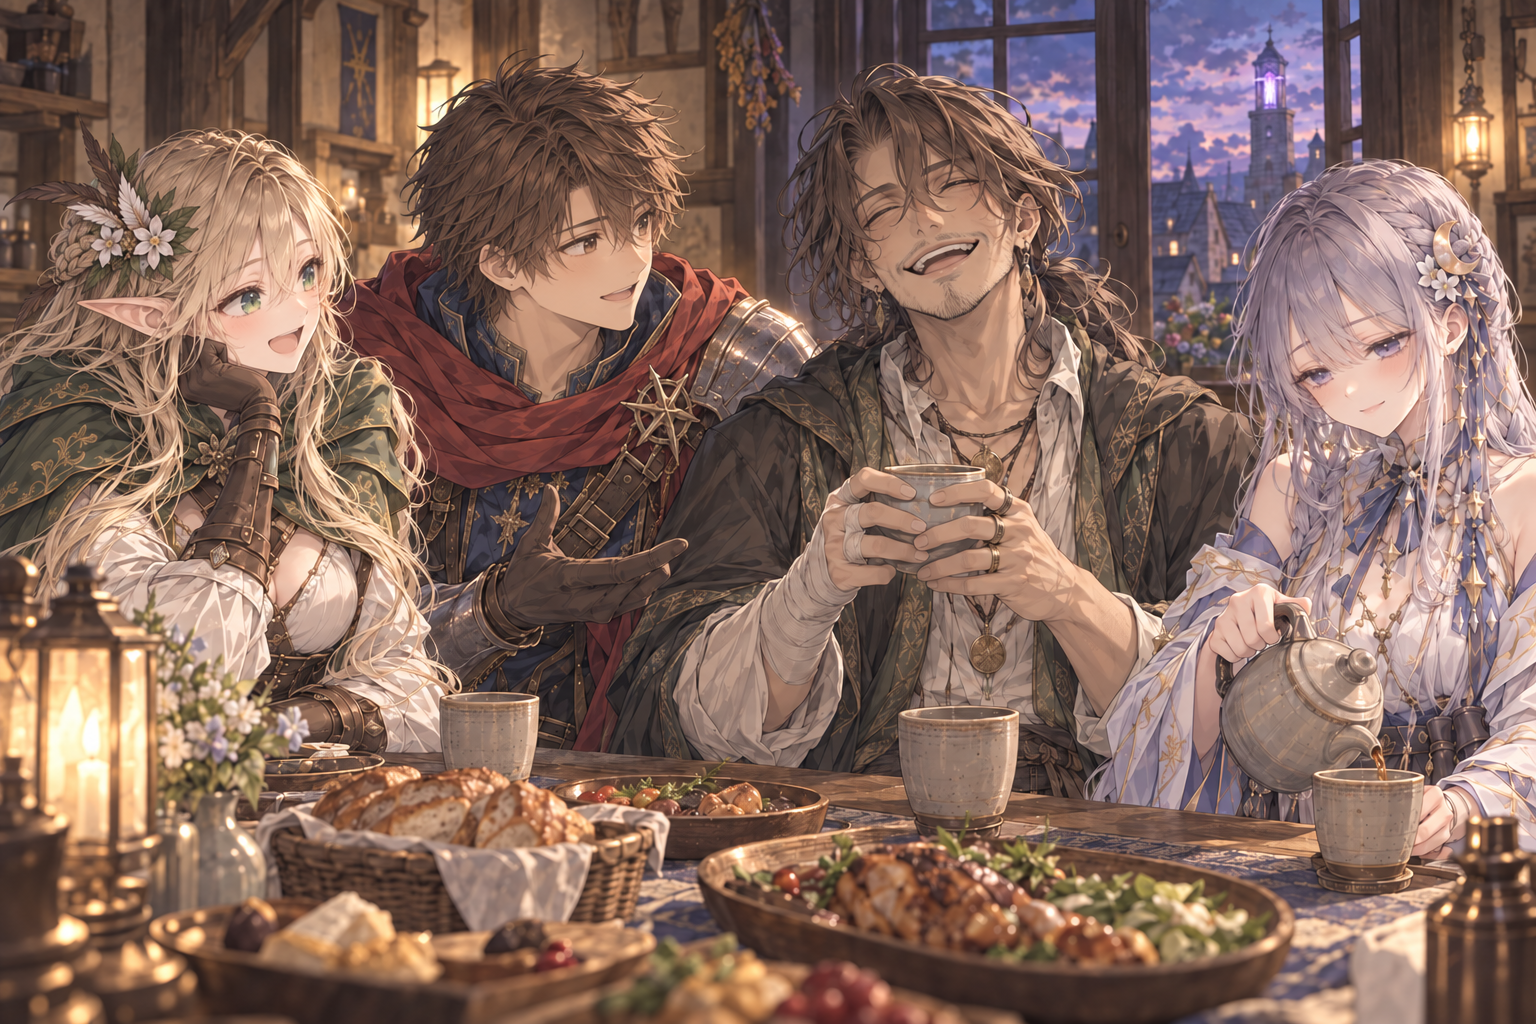
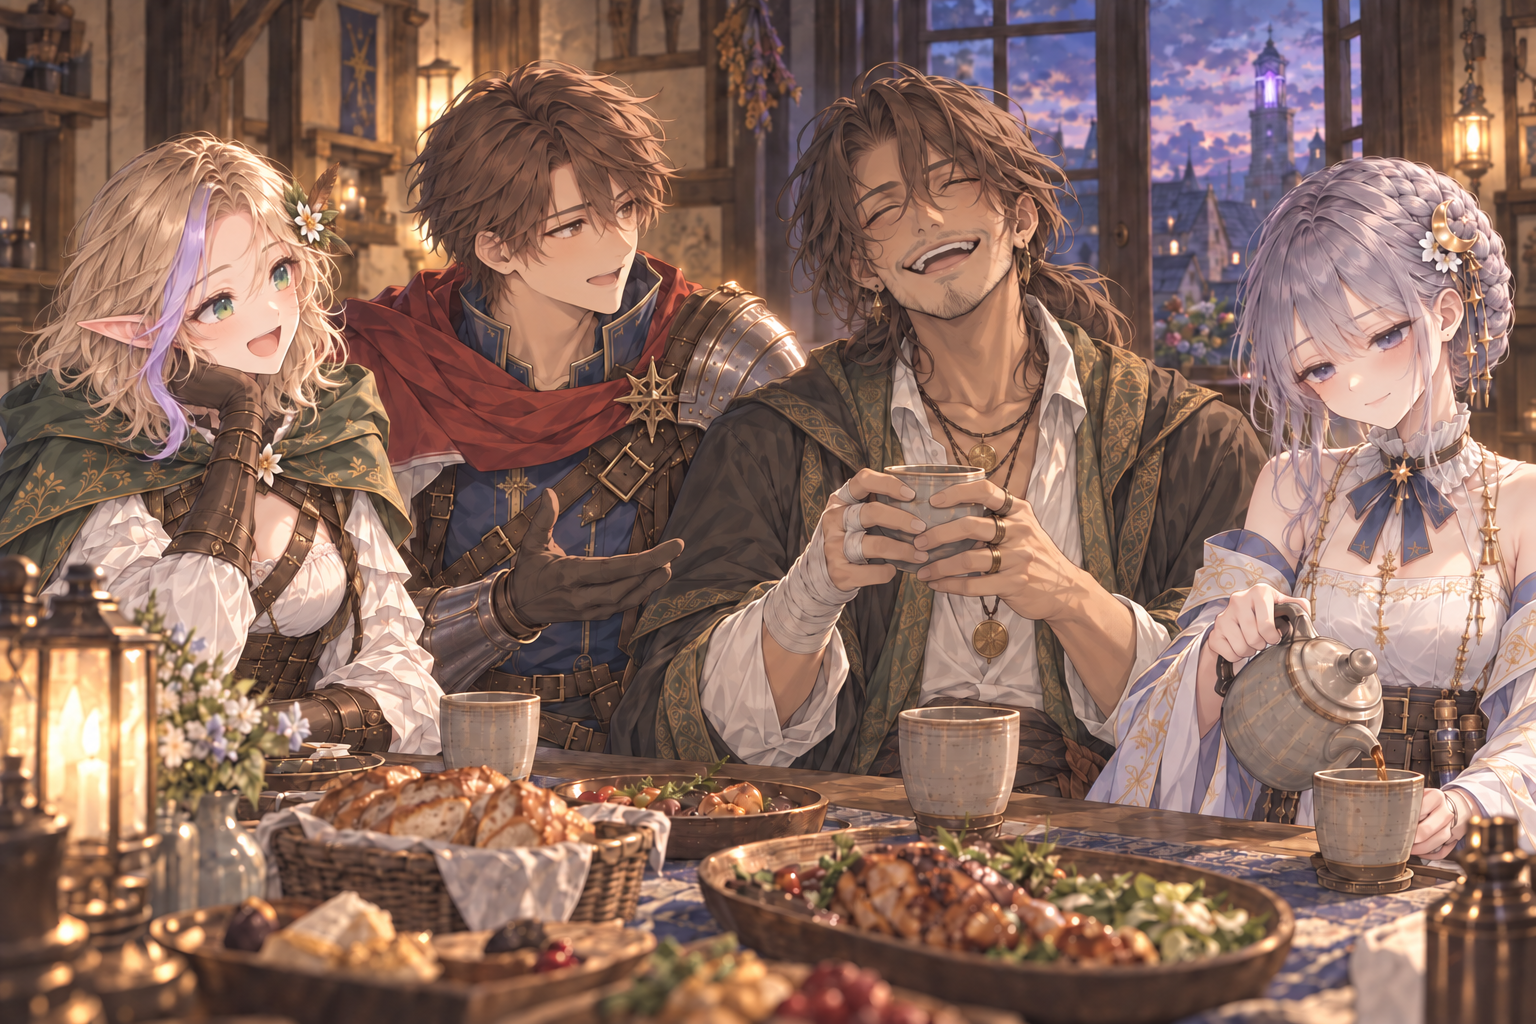
Refresh chapter 3-9 four-person tea still to current character designs

diff --git a/docs/art/story-art.md b/docs/art/story-art.md
@@ -37,6 +37,8 @@
 
 2026-10-05に3-8の手当てを最新設定画へ合わせて更新した。フィンは大きな毛束で簡素にまとめた茶髪と低い位置の結び髪、日焼け・無精髭・垂れ目と気の抜けた笑みを保つ。ミラは薄紫の編み込みのまとめ髪、目元の疲労、軽いローブと治療用ポーチを反映する。右手へ薄く包帯を巻く動作、背景と表示開始位置は維持する。[更新記録](../art-generation/mira-tends-finn-refresh-20261005.json)を参照。
 
+同日に3-9の四人のお茶も最新設定画へ更新した。アリアは前から編み込みがほぼ見えない短い金髪と正面から見て左側の薄紫の一房、レオンは簡素な毛束と短い片肩マント、フィンは低い結び髪と中年らしい顔立ち、ミラはまとめ髪と疲労のにじむ目元・襟とリボンを反映する。フィンの目を閉じた笑い、右手の薄い包帯・左手の二つの指輪、ミラが注ぐ動作、四つのカップと背景・表示開始位置を保つ。[更新記録](../art-generation/four-cups-refresh-20261005.json)を参照。
+
 ## 第二章2-8・2-9：薬の配達と三人のお茶
 
 組み込み `image_gen` で各1536×1024の画像を制作。アリア・レオン・ミラのリファレンスシートを外見・衣装の参照に使い、文字なしの一枚絵にした。モデル識別子は返されていない。最終プロンプトは [生成記録](../art-generation/chapter-two-finale-art.json) に保存。

diff --git a/docs/art/story-art-gallery.md b/docs/art/story-art-gallery.md
@@ -74,6 +74,8 @@
 
 ![塔に灯りが戻った夕方、アリアとレオンが話し、フィンが目を閉じて笑う。傍らでは青白い顔のミラがお茶を注いでいる。](../../public/stories/four-cups-of-tea.webp)
 
+`berne-restoration-return` の食堂での会話から表示。2026-10-05に四人の最新設定画へ更新した。アリアの前からほぼ見えない編み込みと短い髪、レオンの短い片肩マント、フィンの低い結び髪、ミラのまとめ髪を反映する。四つのカップ、フィンの右手の包帯・左手の指輪、目を閉じた笑いとミラが注ぐ動作を保つ。[更新記録](../art-generation/four-cups-refresh-20261005.json)を参照。
+
 ## 第四章
 
 [制作条件](chapter-four-stills.md)と[生成記録](../art-generation/chapter-four-stills.json)を参照。
